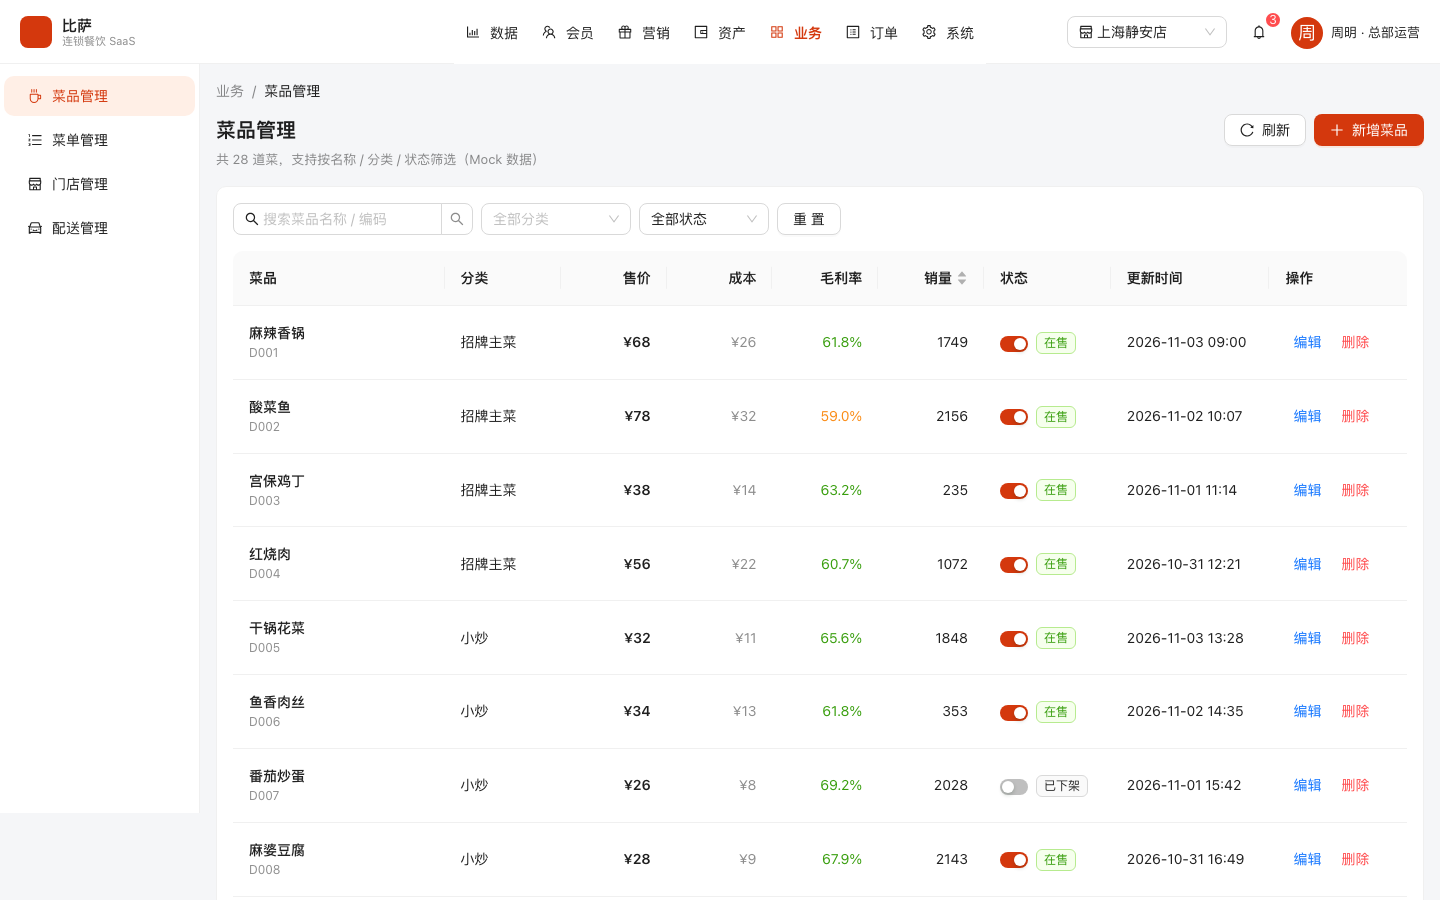
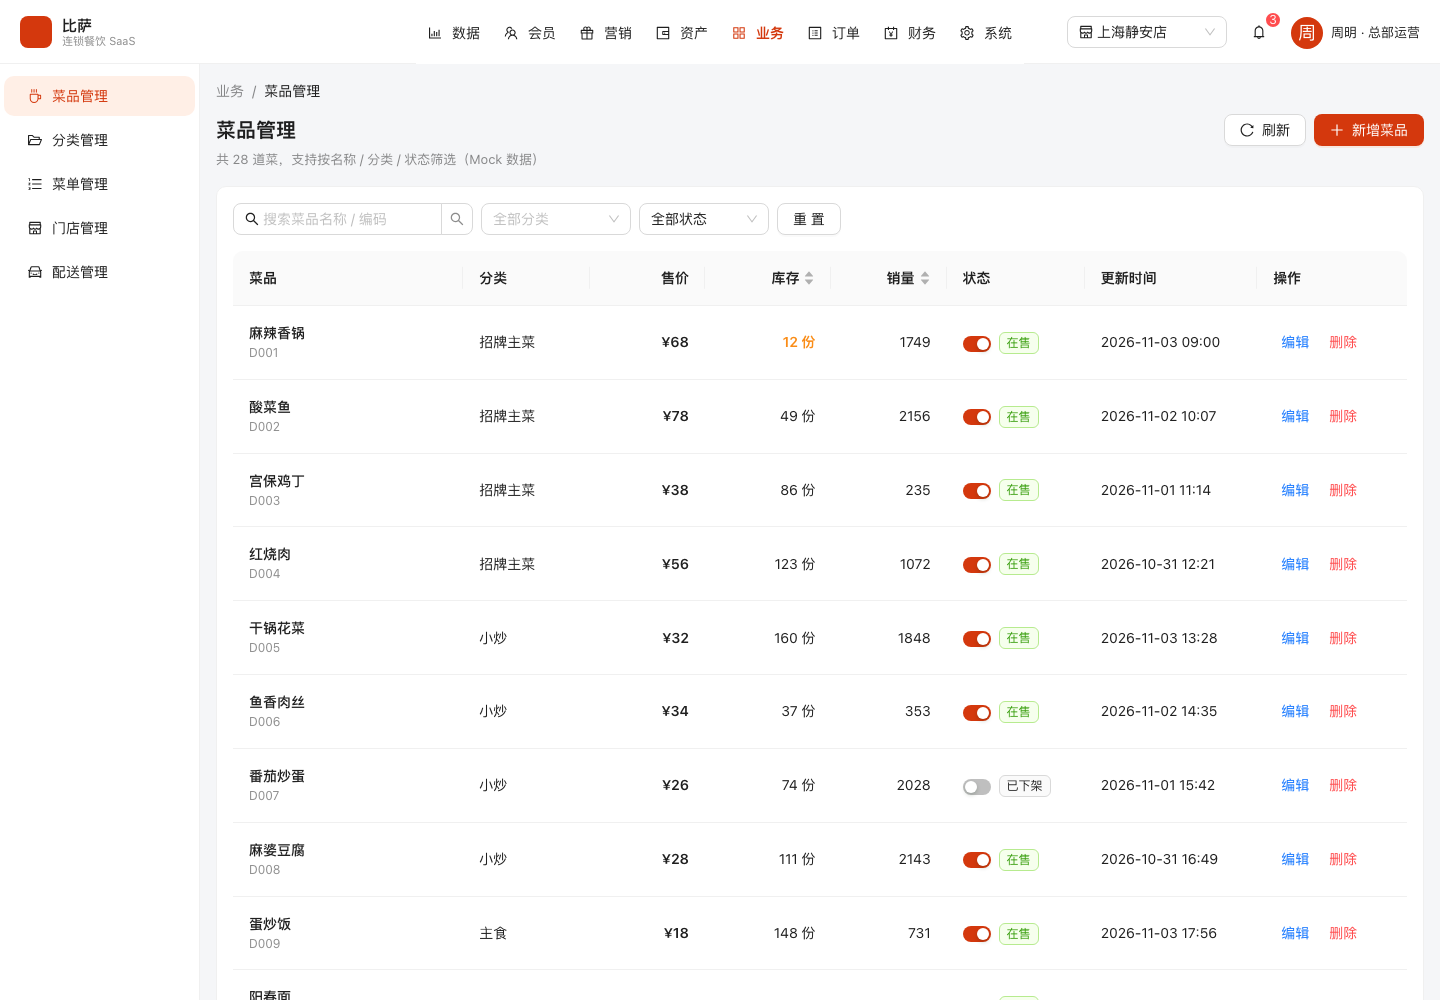
feat: 菜品管理列表改为展示库存，下架增加二次确认
- 列表：去掉「成本」「毛利率」两列，新增「库存」列（< 20 份橙色预警、0 份显示「缺货」红色），
  成本仅保留在新增/编辑表单中用于对账单成本核算
- 下架：列表行内 Switch 关闭时弹二次确认，文案为「下架不影响已生成的订单，用户将无法购买此商品，确定要下架吗？」，
  取消不改状态；编辑表单把状态从在售改成下架时同样走该确认；上架不弹
- 数据：Dish 类型与 Mock 增加 stock 字段（固定规则生成，不消耗随机种子，避免其它模块数据漂移），
  新增/编辑表单支持填写库存（0~9999，默认 100）
- 文档：docs/api/06-dish.md 与 OpenAPI schemas/dish.yaml 补充 stock 字段、下架确认与库存预警说明，
  同步分类来源改为「业务 · 分类管理」
- 截图：docs/screenshots/dishes.png 更新，新增 dishes-offline-confirm.png
- 验证：tsc + vite build、24/24 路由无头渲染、Redocly 校验、下架取消/确认流程自动化验证均通过

diff --git a/src/pages/Dishes/index.tsx b/src/pages/Dishes/index.tsx
@@ -31,7 +31,7 @@ import { dishStatusMeta, money } from '../../utils/format';
 const emptyPage: Paged<Dish> = { list: [], total: 0, page: 1, pageSize: 10 };
 
 export default function DishesPage() {
-  const { message } = App.useApp();
+  const { message, modal } = App.useApp();
   const [form] = Form.useForm<DishInput>();
 
   const [keyword, setKeyword] = useState('');
@@ -75,7 +75,7 @@ export default function DishesPage() {
   const openCreate = () => {
     setEditing(null);
     form.resetFields();
-    form.setFieldsValue({ status: 'on' });
+    form.setFieldsValue({ status: 'on', stock: 100 });
     setDrawerOpen(true);
   };
 
@@ -87,13 +87,25 @@ export default function DishesPage() {
       category: dish.category,
       price: dish.price,
       cost: dish.cost,
+      stock: dish.stock,
       status: dish.status,
       description: dish.description,
     });
     setDrawerOpen(true);
   };
 
-  const handleSave = async (values: DishInput) => {
+  const confirmOffline = (title: string, onOk: () => Promise<void> | void) => {
+    modal.confirm({
+      title,
+      content: '下架不影响已生成的订单，用户将无法购买此商品，确定要下架吗？',
+      okText: '确定下架',
+      okButtonProps: { danger: true },
+      cancelText: '取消',
+      onOk,
+    });
+  };
+
+  const doSave = async (values: DishInput) => {
     setSaving(true);
     try {
       await saveDish({ ...values, id: editing?.id });
@@ -107,10 +119,26 @@ export default function DishesPage() {
     }
   };
 
-  const handleToggle = async (dish: Dish, checked: boolean) => {
+  const handleSave = (values: DishInput) => {
+    if (editing && editing.status === 'on' && values.status === 'off') {
+      confirmOffline(`确认下架「${editing.name}」？`, () => doSave(values));
+      return;
+    }
+    void doSave(values);
+  };
+
+  const doToggle = async (dish: Dish, checked: boolean) => {
     await updateDishStatus(dish.id, checked ? 'on' : 'off');
     message.success(`${dish.name} 已${checked ? '上架' : '下架'}`);
     await load();
+  };
+
+  const handleToggle = (dish: Dish, checked: boolean) => {
+    if (checked) {
+      void doToggle(dish, true);
+      return;
+    }
+    confirmOffline(`确认下架「${dish.name}」？`, () => doToggle(dish, false));
   };
 
   const handleRemove = async (dish: Dish) => {
@@ -140,19 +168,15 @@ export default function DishesPage() {
       render: (value: number) => <span style={{ fontWeight: 600 }}>{money(value)}</span>,
     },
     {
-      title: '成本',
-      dataIndex: 'cost',
-      width: 100,
+      title: '库存',
+      dataIndex: 'stock',
+      width: 110,
       align: 'right',
-      render: (value: number) => <span style={{ color: 'var(--text-secondary)' }}>{money(value)}</span>,
-    },
-    {
-      title: '毛利率',
-      width: 100,
-      align: 'right',
-      render: (_, dish) => {
-        const rate = dish.price ? ((dish.price - dish.cost) / dish.price) * 100 : 0;
-        return <span style={{ color: rate >= 60 ? '#389e0d' : '#fa8c16' }}>{rate.toFixed(1)}%</span>;
+      sorter: (a, b) => a.stock - b.stock,
+      render: (value: number) => {
+        if (value === 0) return <span className="stock-empty">缺货</span>;
+        if (value < 20) return <span className="stock-low">{value} 份</span>;
+        return `${value} 份`;
       },
     },
     {
@@ -268,7 +292,7 @@ export default function DishesPage() {
           loading={loading}
           columns={columns}
           dataSource={data.list}
-          scroll={{ x: 1080 }}
+          scroll={{ x: 1020 }}
           pagination={{
             current: page,
             pageSize,
@@ -324,10 +348,19 @@ export default function DishesPage() {
               label="成本（元）"
               rules={[{ required: true, message: '请输入成本' }]}
               style={{ width: 200 }}
+              extra="用于核算毛利，不在列表展示"
             >
               <InputNumber min={0} precision={2} style={{ width: '100%' }} placeholder="26.00" />
             </Form.Item>
           </Space>
+
+          <Form.Item
+            name="stock"
+            label="库存（份）"
+            rules={[{ required: true, message: '请输入库存' }]}
+          >
+            <InputNumber min={0} max={9999} precision={0} style={{ width: '100%' }} placeholder="100" />
+          </Form.Item>
 
           <Form.Item name="status" label="售卖状态" rules={[{ required: true }]}>
             <Radio.Group

diff --git a/src/services/dish.ts b/src/services/dish.ts
@@ -45,6 +45,7 @@ export interface DishInput {
   category: string;
   price: number;
   cost: number;
+  stock: number;
   status: DishStatus;
   description?: string;
 }
@@ -67,6 +68,7 @@ export async function saveDish(input: DishInput): Promise<Dish> {
     category: input.category,
     price: input.price,
     cost: input.cost,
+    stock: input.stock,
     status: input.status,
     description: input.description ?? '',
     sales: 0,

diff --git a/src/mock/db.ts b/src/mock/db.ts
@@ -87,6 +87,8 @@ export const dishes: Dish[] = dishSeed.map(([name, category, price, cost, descri
   category,
   price,
   cost,
+  // 库存不消耗随机种子，保证其它模块的 Mock 数据不因新增字段而漂移
+  stock: i === 22 ? 0 : 12 + ((i * 37) % 160),
   sales: Math.round(80 + rng() * 2400),
   status: i === 6 || i === 21 ? 'off' : 'on',
   description,

diff --git a/src/styles/global.css b/src/styles/global.css
@@ -237,3 +237,22 @@ body {
     display: none;
   }
 }
+
+/* 菜品库存：低于 20 份提醒、0 份缺货 */
+.stock-low {
+  color: #fa8c16;
+  font-weight: 600;
+}
+
+.stock-empty {
+  color: #cf1322;
+  font-weight: 600;
+}
+
+[data-theme='dark'] .stock-low {
+  color: #ffc069;
+}
+
+[data-theme='dark'] .stock-empty {
+  color: #ff7875;
+}

diff --git a/src/types.ts b/src/types.ts
@@ -26,6 +26,8 @@ export interface Dish {
   category: string;
   price: number;
   cost: number;
+  /** 当前库存（份）。 */
+  stock: number;
   sales: number;
   status: DishStatus;
   description: string;

diff --git a/docs/api/06-dish.md b/docs/api/06-dish.md
@@ -14,13 +14,14 @@
 
 - 列表：按关键词（菜品名称 / 编码）、分类、状态筛选并分页；
 - 分类选项：进入页面时加载，同时用于筛选下拉与新增/编辑表单；
-- 新增 / 编辑：右侧抽屉表单（名称、分类、售价、成本、状态、描述）；
-- 上下架：列表行内 `Switch` 切换 `on`（在售）/ `off`（已下架）；
+- 新增 / 编辑：右侧抽屉表单（名称、分类、售价、成本、库存、状态、描述）；
+- 上下架：列表行内 `Switch` 切换 `on`（在售）/ `off`（已下架）；关闭时前端二次确认，提示「下架不影响已生成的订单，用户将无法购买此商品，确定要下架吗？」；
+- 列表展示：菜品名称/编码、分类、售价、库存、销量、状态、更新时间（成本与毛利率不在列表展示，成本仅用于对账单核算）；
 - 删除：二次确认后删除。
 
 **前端数据流**：`页面 → src/services/dish.ts → src/mock/db.ts` 的 `dishes` 内存数组。真实后端只需替换 service 层实现，页面无需改动。
 
-**本期未建模**（`Dish` 类型中不存在，不纳入本期契约）：菜品图片、规格/加料、库存、门店级价格与上下架、分类字典 CRUD、销量写入（`sales` 只读）。
+**本期未建模**（`Dish` 类型中不存在，不纳入本期契约）：菜品图片、规格/加料、门店级价格与上下架、销量写入（`sales` 只读）。分类字典 CRUD 见「业务 · 分类管理」页面（接口契约待补）。
 
 ## 二、前端函数 → HTTP 接口映射
 
@@ -46,7 +47,7 @@
 
 ### 3.2 菜品分类（`category`）
 
-`category` 为字符串（非固定枚举），当前 Mock 数据去重后共 7 个分类，按首次出现顺序：
+`category` 为字符串（非固定枚举），选项来自「业务 · 分类管理」（仅启用中的分类，按分类排序值返回）。当前 Mock 共 8 个分类：
 
 | 序号 | 分类 |
 | --- | --- |
@@ -57,8 +58,9 @@
 | 5 | 饮品 |
 | 6 | 甜品 |
 | 7 | 凉菜 |
+| 8 | 套餐 |
 
-> 后端须保证新增/编辑菜品时 `category` 存在于分类字典中；Mock 没有独立分类管理，新增分类的唯一方式是给菜品填写新分类（生产建议独立分类字典，见文末差异表）。
+> 后端须保证新增/编辑菜品时 `category` 存在于分类字典（分类管理）中；停用的分类不会出现在下拉选项里。
 
 ### 3.3 Dish 字段字典
 
@@ -68,7 +70,8 @@
 | `name` | string | 菜品名称，最长 30 字符；建议同分类下唯一 |
 | `category` | string | 所属分类，取值见 3.2 |
 | `price` | number | 售价，单位「元」，两位小数（Mock 种子为整数，如 `68`） |
-| `cost` | number | 成本，单位「元」，两位小数（Mock 种子为整数，如 `26`） |
+| `cost` | number | 成本，单位「元」，两位小数（Mock 种子为整数，如 `26`）；仅用于成本/毛利核算，不在列表展示 |
+| `stock` | number | 当前库存（份），整数，`≥ 0`；`0` 表示缺货，列表对 `< 20` 做预警色 |
 | `sales` | number | 累计销量，只读；新增时服务端置 `0`；真实接口建议由订单/结算聚合，不接受客户端写入 |
 | `status` | string | 菜品状态，见 3.1 |
 | `description` | string | 菜品描述，最长 120 字符，可为空串 |
@@ -76,7 +79,8 @@
 
 ### 3.4 前端展示计算（无接口）
 
-- 毛利率 = `(price - cost) / price × 100`，保留 1 位小数；`≥ 60%` 显示绿色，否则橙色；`price = 0` 时按 0 处理。该值仅前端展示，不落库、不作为入参。
+- 列表不再展示成本与毛利率；成本只在前端对账单（`docs/api/09` 待补）做商品成本核算，`price`/`cost` 均不参与菜品列表的计算列；
+- 库存展示：`stock = 0` 显示「缺货」（红色）、`0 < stock < 20` 显示预警色（橙色），其余正常显示 `N 份`。预警阈值属于前端展示规则，不落库。
 
 ## 四、接口明细
 
@@ -105,6 +109,7 @@
       "category": "招牌主菜",
       "price": 68,
       "cost": 26,
+      "stock": 12,
       "sales": 1749,
       "status": "on",
       "description": "招牌麻辣锅底，可选微辣/中辣/特辣",
@@ -116,6 +121,7 @@
       "category": "招牌主菜",
       "price": 78,
       "cost": 32,
+      "stock": 49,
       "sales": 2156,
       "status": "on",
       "description": "老坛酸菜配黑鱼片，酸辣开胃",
@@ -144,12 +150,12 @@
 - **出参（data）**：字符串数组，以下为 Mock 真实值：
 
 ```json
-["招牌主菜", "小炒", "主食", "汤羹", "饮品", "甜品", "凉菜"]
+["招牌主菜", "小炒", "主食", "汤羹", "饮品", "甜品", "凉菜", "套餐"]
 ```
 
 - **业务规则**：
-  - 从菜品数据 `category` 去重得到，按首次出现顺序返回；不返回空分类；
-  - Mock 无独立分类管理：新增分类的唯一途径是给菜品填写新分类；生产建议独立分类字典（`id`、名称、排序、状态）并提供 CRUD；
+  - 取「分类管理」中启用状态的分类，按排序值升序返回；停用分类不返回；
+  - 分类的新增 / 改名 / 停用由「业务 · 分类管理」维护（接口契约待补）；
   - 选项不分页、不做门店过滤。
 - **错误**：`40100`；`50000`。
 
@@ -165,6 +171,7 @@
 | category | string | 是 | 分类名称，须存在于分类字典 |
 | price | number | 是 | 售价（元），`≥ 0`，最多 2 位小数 |
 | cost | number | 是 | 成本（元），`≥ 0`，最多 2 位小数；建议校验 `cost ≤ price` |
+| stock | number | 是 | 库存（份），整数，`0 ~ 9999`；页面新增时默认 `100` |
 | status | string | 是 | `on` / `off`，页面新增时默认 `on` |
 | description | string | 否 | 菜品描述，≤ 120 字符；缺省保存为空串 |
 
@@ -177,6 +184,7 @@
   "category": "小炒",
   "price": 28,
   "cost": 10,
+  "stock": 100,
   "sales": 0,
   "status": "on",
   "description": "现炒蒜香，清爽解腻",
@@ -202,7 +210,7 @@
 | --- | --- | --- | --- |
 | id | string | 是 | 菜品编码，如 `D001` |
 
-- **入参（Body）**：同 `POST /api/v1/dishes` 的 `name`、`category`、`price`、`cost`、`status`、`description`（不传 `id`，以 Path 为准）。
+- **入参（Body）**：同 `POST /api/v1/dishes` 的 `name`、`category`、`price`、`cost`、`stock`、`status`、`description`（不传 `id`，以 Path 为准）。
 
 - **出参（data）**：更新后的完整菜品对象：
 
@@ -213,6 +221,7 @@
   "category": "招牌主菜",
   "price": 72,
   "cost": 26,
+  "stock": 80,
   "sales": 1749,
   "status": "on",
   "description": "招牌麻辣锅底，可选微辣/中辣/特辣",
@@ -250,6 +259,7 @@
   - 幂等：重复设置为同一状态返回成功；相同请求可安全重试；
   - Mock 仅修改 `status`，**不更新 `updatedAt`、不写系统日志**，且 `id` 不存在时静默成功；生产要求：同步 `updatedAt`、写系统日志（`module=菜品管理`、`action=update`）、不存在返回 `40400`；
   - 上下架只影响能否点单，不改变历史订单/售后；下架菜品在列表与筛选中仍可见；
+  - 前端在「下架」时二次确认，文案：「下架不影响已生成的订单，用户将无法购买此商品，确定要下架吗？」（上架不弹确认）；
   - 如需「按门店上下架」，建议扩展 `storeIds` 入参或使用门店菜品接口（本期不实现）。
 - **错误**：`40001`（`status` 非 `on`/`off`）；`40400`；`40300`；`50000`。
 
@@ -283,7 +293,8 @@
 | 校验 | 无名称唯一/分类存在/引用校验 | `40001` / `40900` 完整校验 |
 | 错误行为 | 更新/删除不存在时静默成功 | `40400` |
 | 上下架 | 仅改 status，不更新 `updatedAt` | 同步 `updatedAt` 并写系统日志 |
-| 分类 | 无独立分类管理，数据去重 | 独立分类字典 + CRUD |
+| 库存 | 静态字段，下单不扣减 | 需订单扣减 + 库存流水，缺货拦截下单 |
+| 分类 | 分类管理页面维护（Mock 内存） | 独立分类字典 + CRUD |
 | 门店维度 | 未隔离，共享字典 | 视业务扩展门店菜品关系 |
 | 权限 | 无鉴权 | `Authorization` + 门店数据权限 |
 

diff --git a/README.md b/README.md
@@ -104,7 +104,7 @@ src/
 11. 券包管理：券包组合、包含券、有效期、发行量。
 
 **业务**
-12. 菜品管理：搜索/分类/状态筛选、毛利率、上下架、新增/编辑抽屉、删除。
+12. 菜品管理：搜索/分类/状态筛选、售价 / 库存（缺货与低库存预警）/ 销量、上下架开关（下架二次确认：不影响已生成订单、用户无法购买）、新增/编辑抽屉、删除。
 13. 分类管理：分类名称 / 编码 / 排序 / 状态 / 关联菜品数，新增、编辑（改名自动同步菜品归属）、启停、删除（分类下有菜品时禁止删除）；菜品表单的分类下拉与分类管理联动。
 14. 菜单管理：菜单名称、所属门店、菜品数量、生效时段；详情抽屉展示菜品清单。
 15. 门店管理：门店编号/城市/地址/店长/营业时间/营业状态、增改删。
